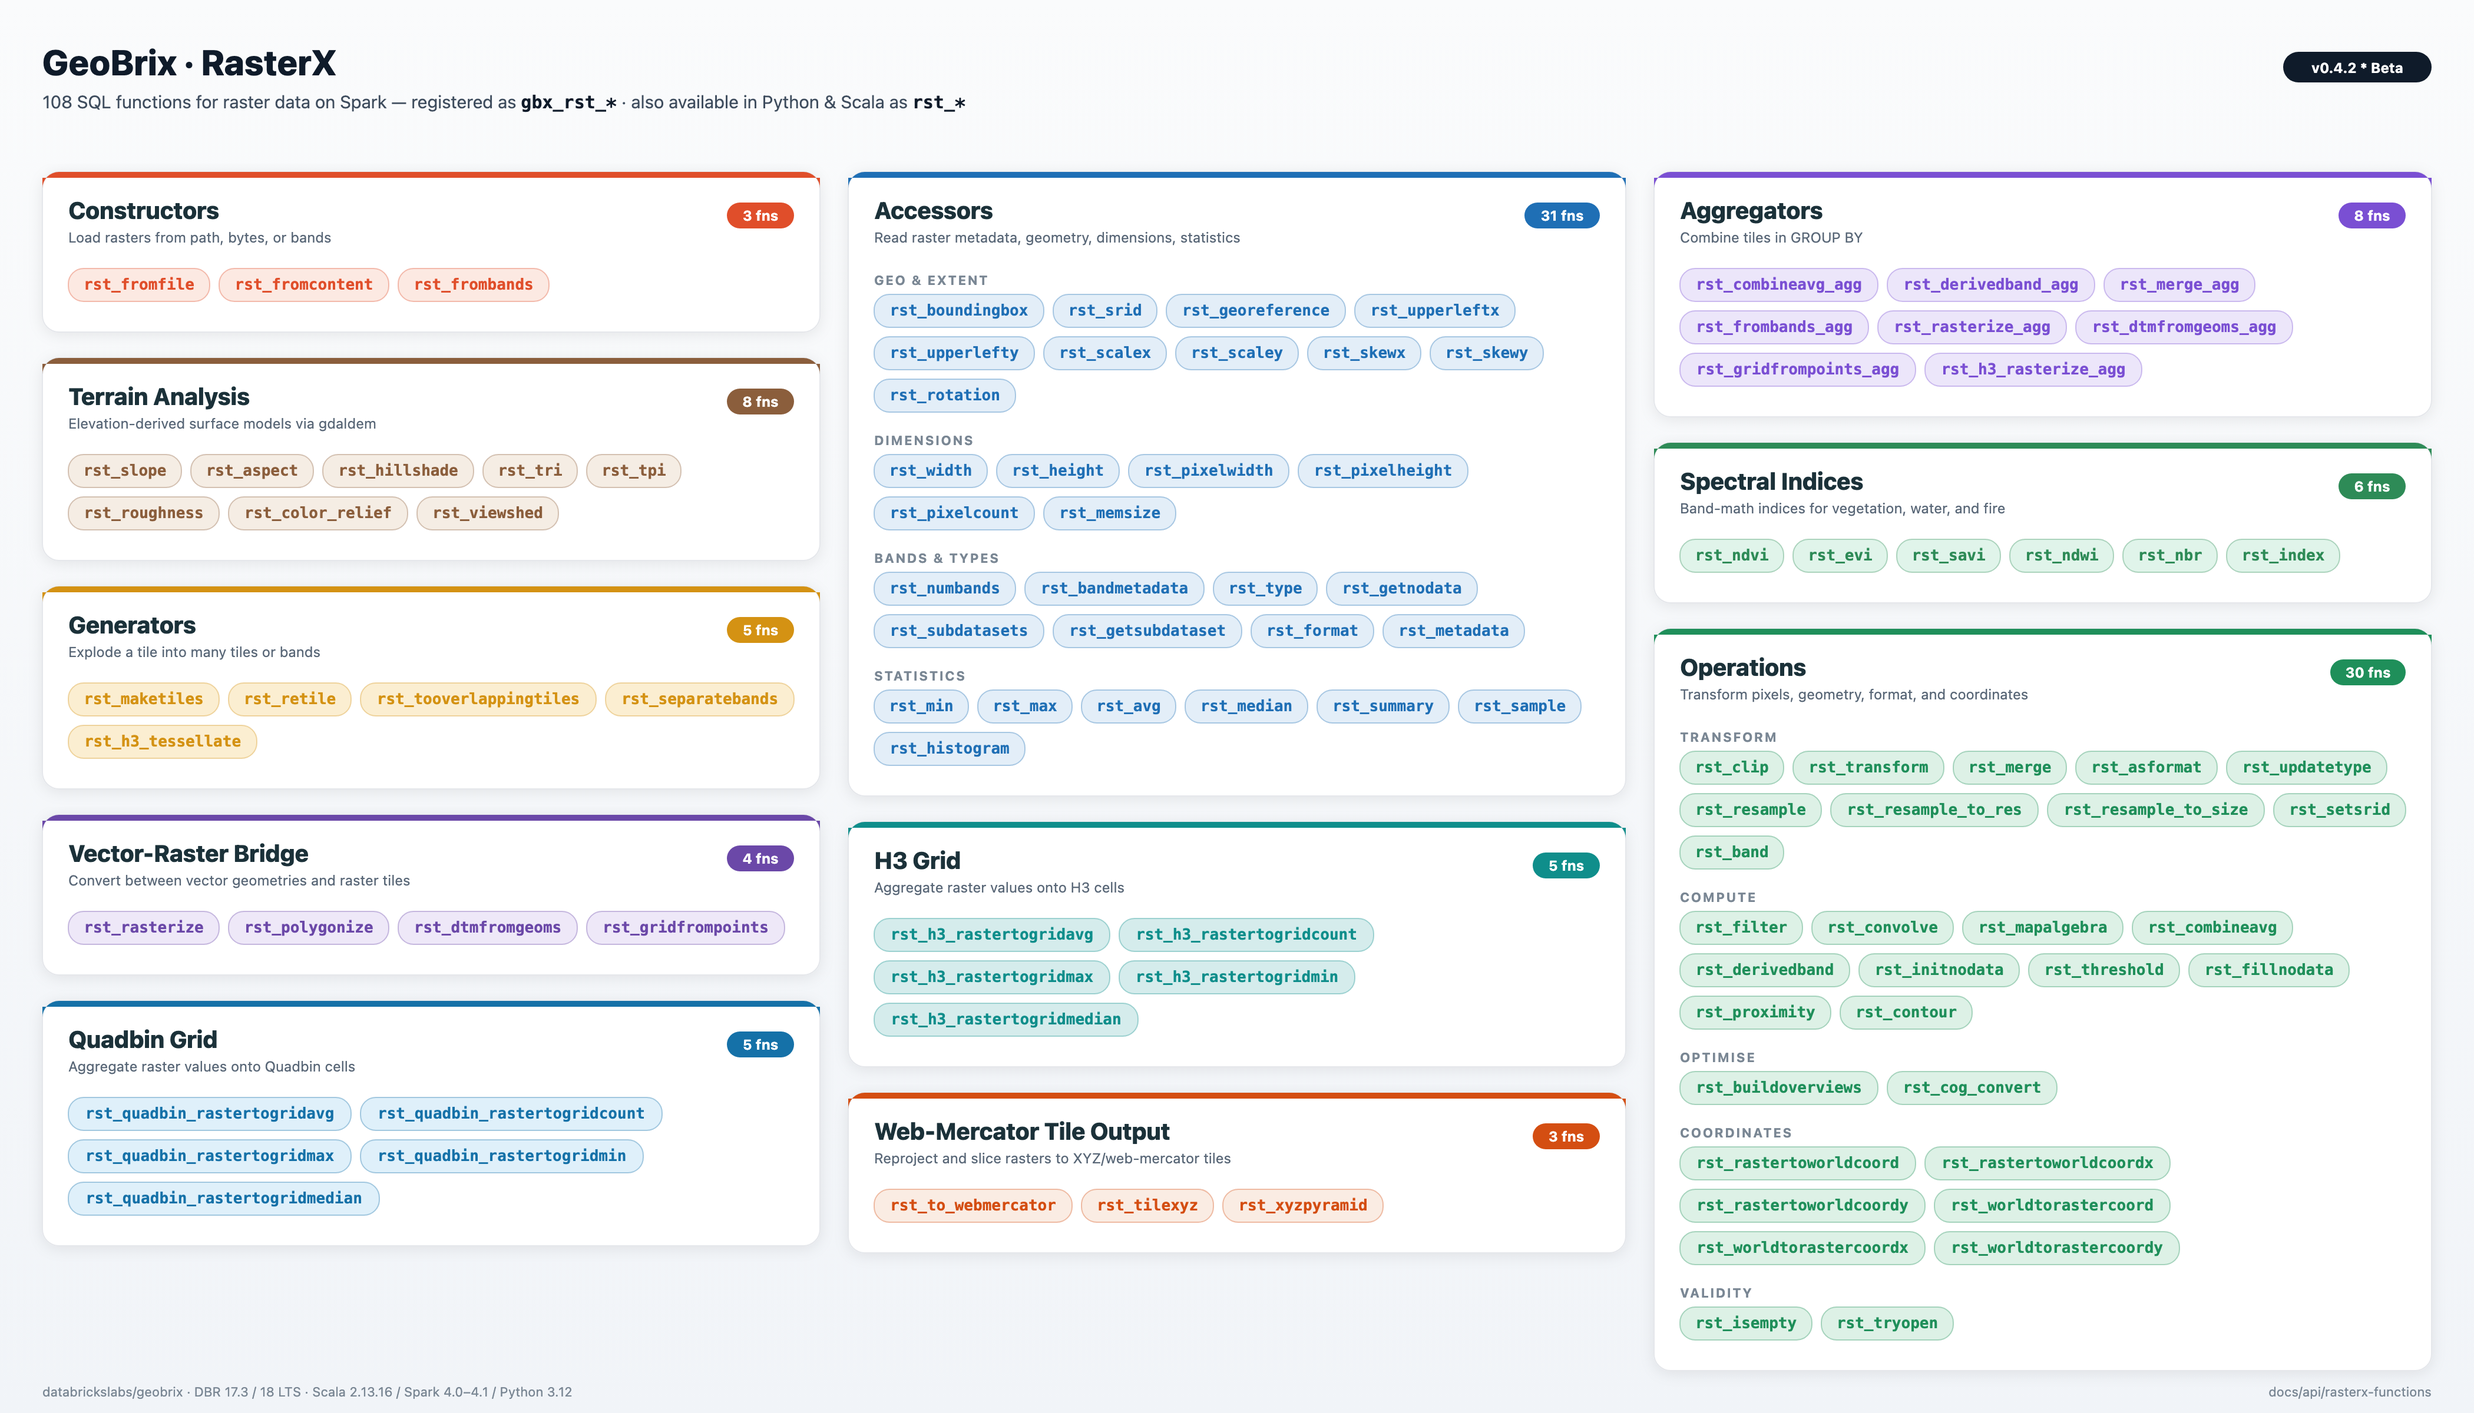
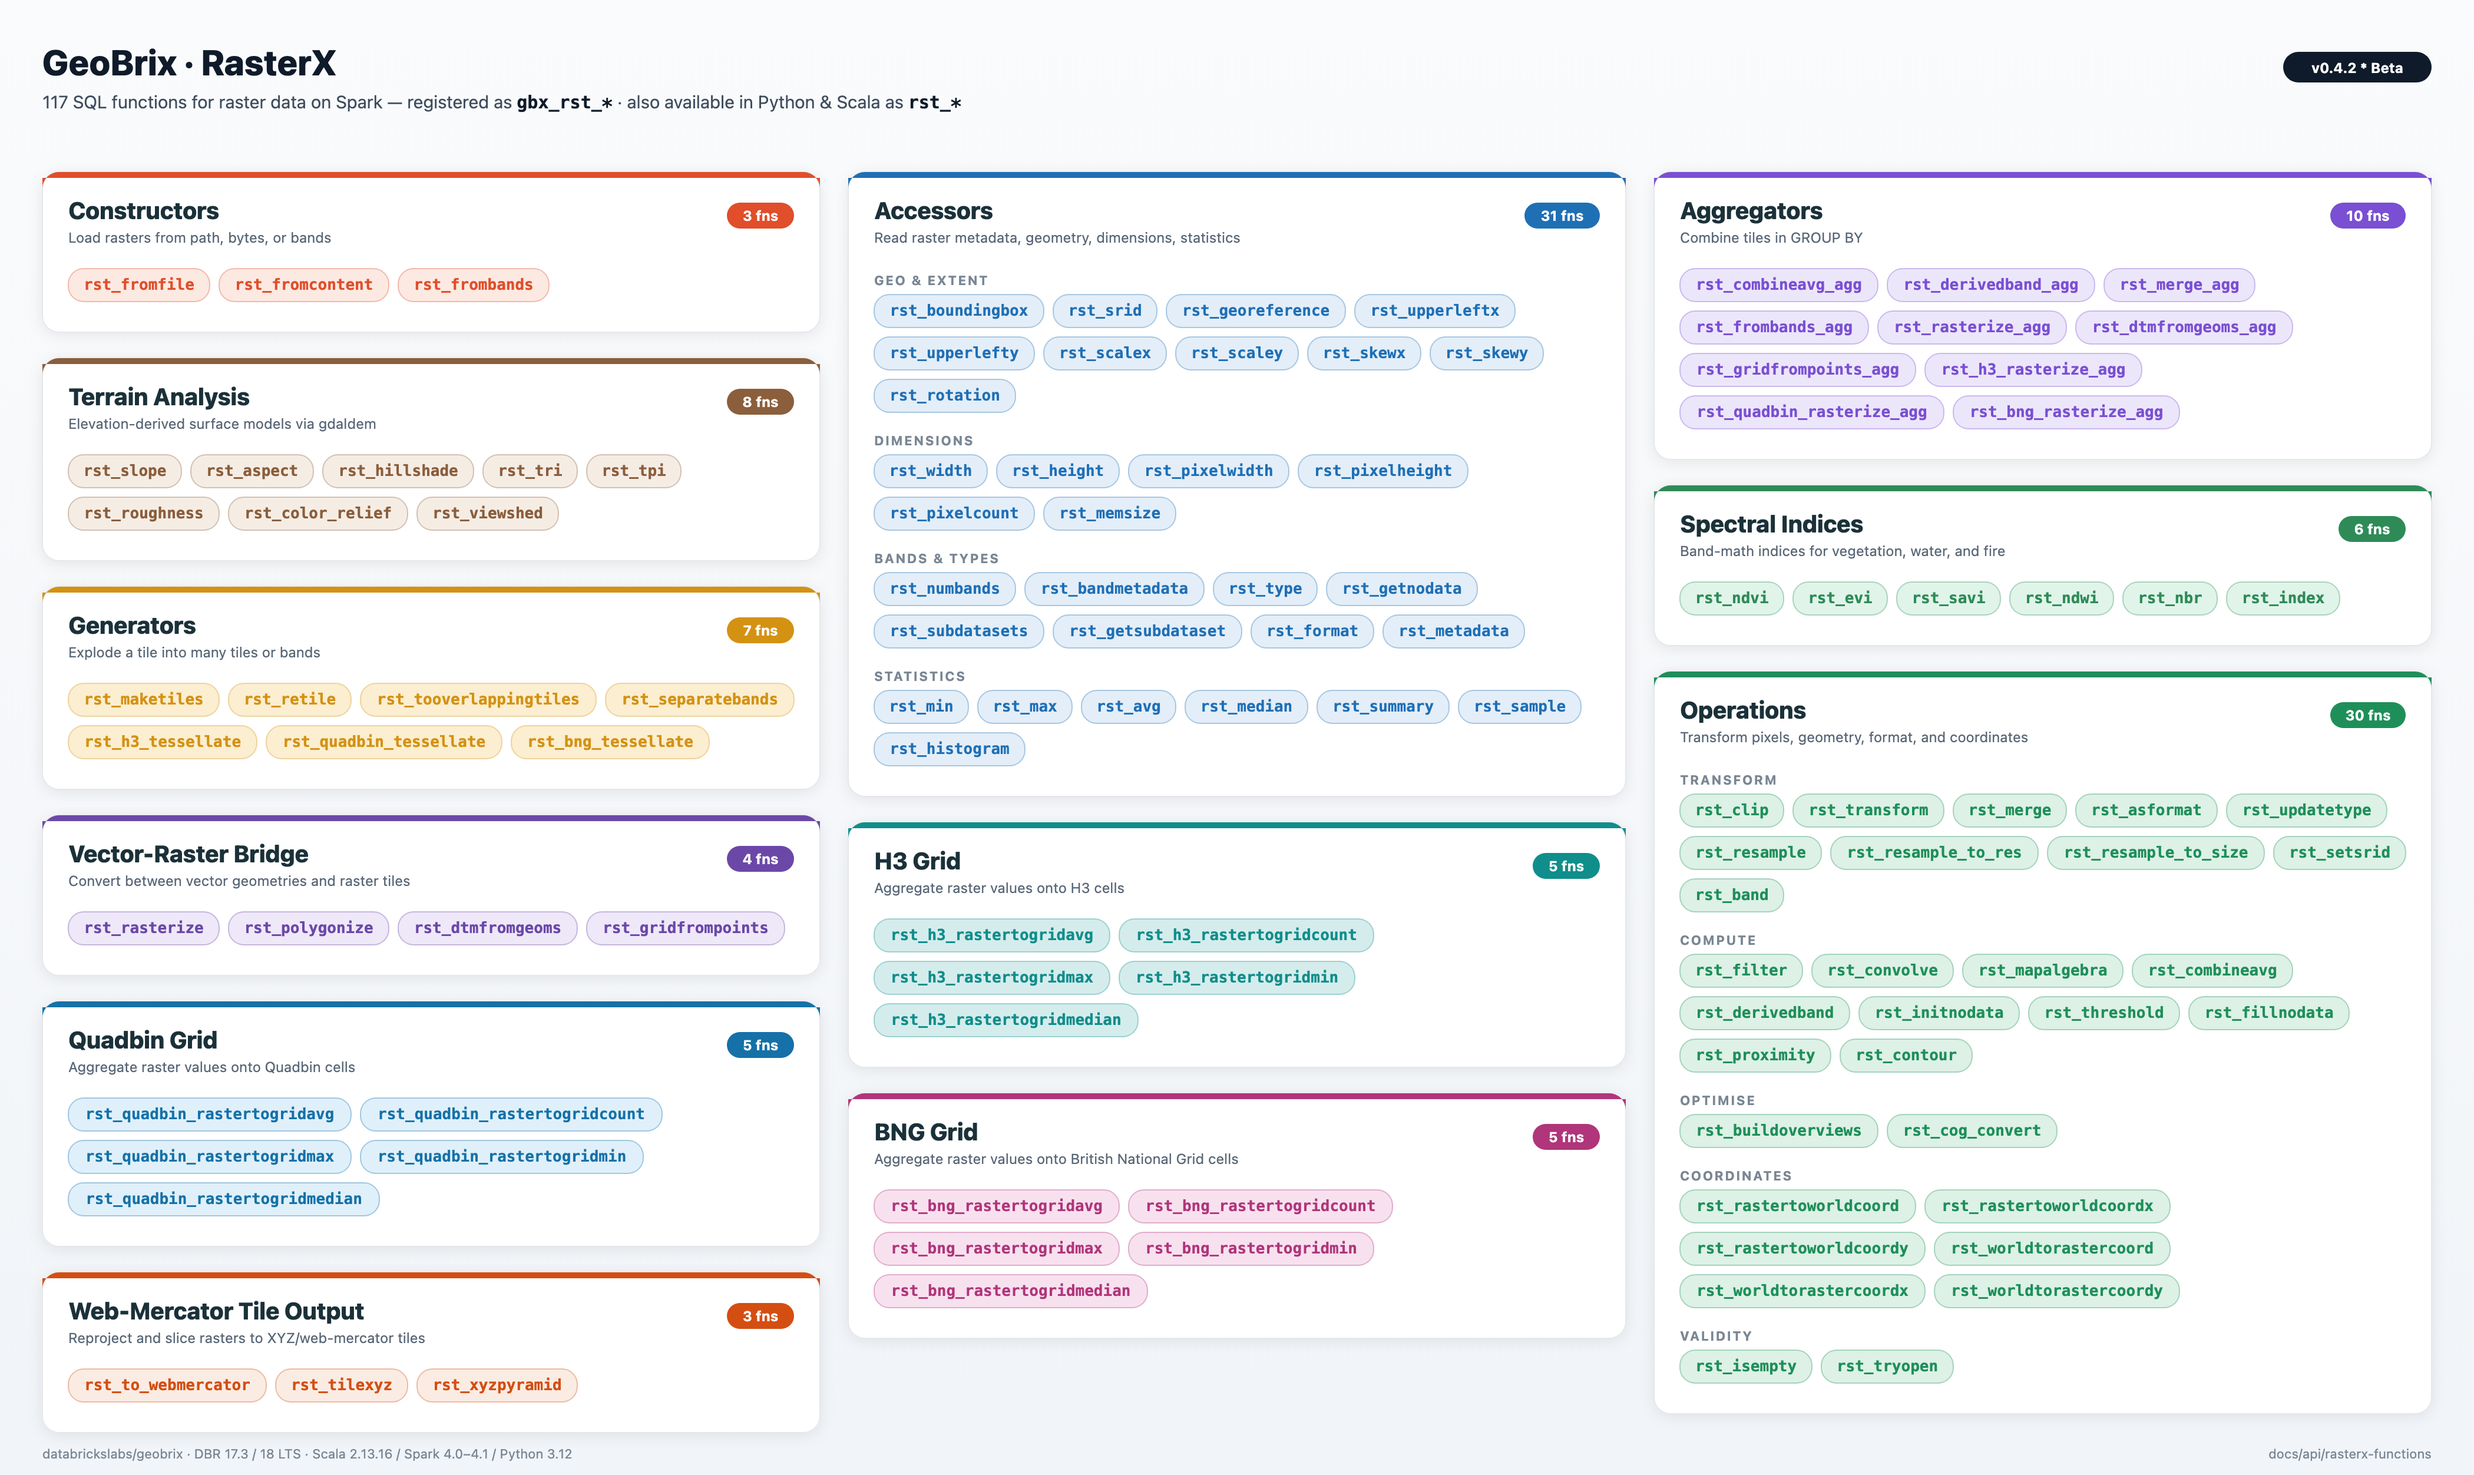
docs(rasterx): flip 9 grid fns to both-tier + diagram/badges
Light-tier (pyrx) parity landed for the 9 raster BNG/quadbin functions
(5 BNG reducers, quadbin/BNG tessellate, quadbin/BNG rasterize_agg), so
their tier badges flip heavy->both across the API docs.

- raster-functions.mdx: 9 <Tier heavy/> -> <Tier both/>; per-function
  Lightweight tier (pyrx) notes (pygx cell math + rasterio, BNG 27700
  auto-warp + STRING ids); drop the BNG-section heavy-only qualifier.
- execution-tiers.mdx: raster-grid table families -> Both; remove the
  "every rst_* except BNG/quadbin" qualifiers so the page-level
  both-tier claim is true again.
- performance.mdx: reframe the two "Heavy-tier variants" headers as
  both-tier QuadBin/BNG grid variants; keep existing families.
- beta-release-notes.mdx: note the 9 are now both-tier via pyrx,
  building toward v0.4.3.
- rasterx-function-categories.py: 108->117; add tessellate to
  Generators, rasterize_agg to Aggregators, new BNG Grid card; regen
  SVG + PNG (portrait + landscape). check-diagram-coverage passes.

Changed region(s): [[0.0, 0.0312, 0.9981, 0.9688], [0.9357, 0.0312, 0.9669, 0.0625], [0.1871, 0.9375, 0.2183, 0.9688]]

diff --git a/resources/images/generators/rasterx-function-categories.py b/resources/images/generators/rasterx-function-categories.py
@@ -28,7 +28,7 @@ Rasterize landscape PNG (for slides / 16:9 decks):
 from dataclasses import dataclass, field
 from textwrap import dedent
 
-# --- Data: 108 functions, organized by category --------------------------------
+# --- Data: 117 functions, organized by category --------------------------------
 
 @dataclass
 class Section:
@@ -87,6 +87,7 @@ CARDS_LEFT = [
             "rst_frombands_agg", "rst_rasterize_agg",
             "rst_dtmfromgeoms_agg", "rst_gridfrompoints_agg",
             "rst_h3_rasterize_agg",
+            "rst_quadbin_rasterize_agg", "rst_bng_rasterize_agg",
         ],
     ),
     Card(
@@ -115,6 +116,7 @@ CARDS_RIGHT = [
         fns=[
             "rst_maketiles", "rst_retile", "rst_tooverlappingtiles",
             "rst_separatebands", "rst_h3_tessellate",
+            "rst_quadbin_tessellate", "rst_bng_tessellate",
         ],
     ),
     Card(
@@ -173,6 +175,16 @@ CARDS_RIGHT = [
             "rst_quadbin_rastertogridavg", "rst_quadbin_rastertogridcount",
             "rst_quadbin_rastertogridmax", "rst_quadbin_rastertogridmin",
             "rst_quadbin_rastertogridmedian",
+        ],
+    ),
+    Card(
+        title="BNG Grid",
+        subtitle="Aggregate raster values onto British National Grid cells",
+        color="#B0357A", tint="#F8E1EF",
+        fns=[
+            "rst_bng_rastertogridavg", "rst_bng_rastertogridcount",
+            "rst_bng_rastertogridmax", "rst_bng_rastertogridmin",
+            "rst_bng_rastertogridmedian",
         ],
     ),
     Card(
@@ -374,7 +386,7 @@ def render():
     )
     parts.append(
         f'<text x="{PAD}" y="{PAD + 56}" font-size="15" fill="#3F4D5E">'
-        f'108 SQL functions for raster data on Spark &#8212; registered as '
+        f'117 SQL functions for raster data on Spark &#8212; registered as '
         f'<tspan font-family="ui-monospace, SFMono-Regular, Menlo, monospace" '
         f'font-weight="700" fill="#0F1B2A">gbx_rst_*</tspan>'
         f' &#183; also available in Python &amp; Scala as '
@@ -483,7 +495,7 @@ def render_landscape():
     )
     parts.append(
         f'<text x="{PAD}" y="{PAD + 56}" font-size="15" fill="#3F4D5E">'
-        f'108 SQL functions for raster data on Spark &#8212; registered as '
+        f'117 SQL functions for raster data on Spark &#8212; registered as '
         f'<tspan font-family="ui-monospace, SFMono-Regular, Menlo, monospace" '
         f'font-weight="700" fill="#0F1B2A">gbx_rst_*</tspan>'
         f' &#183; also available in Python &amp; Scala as '
